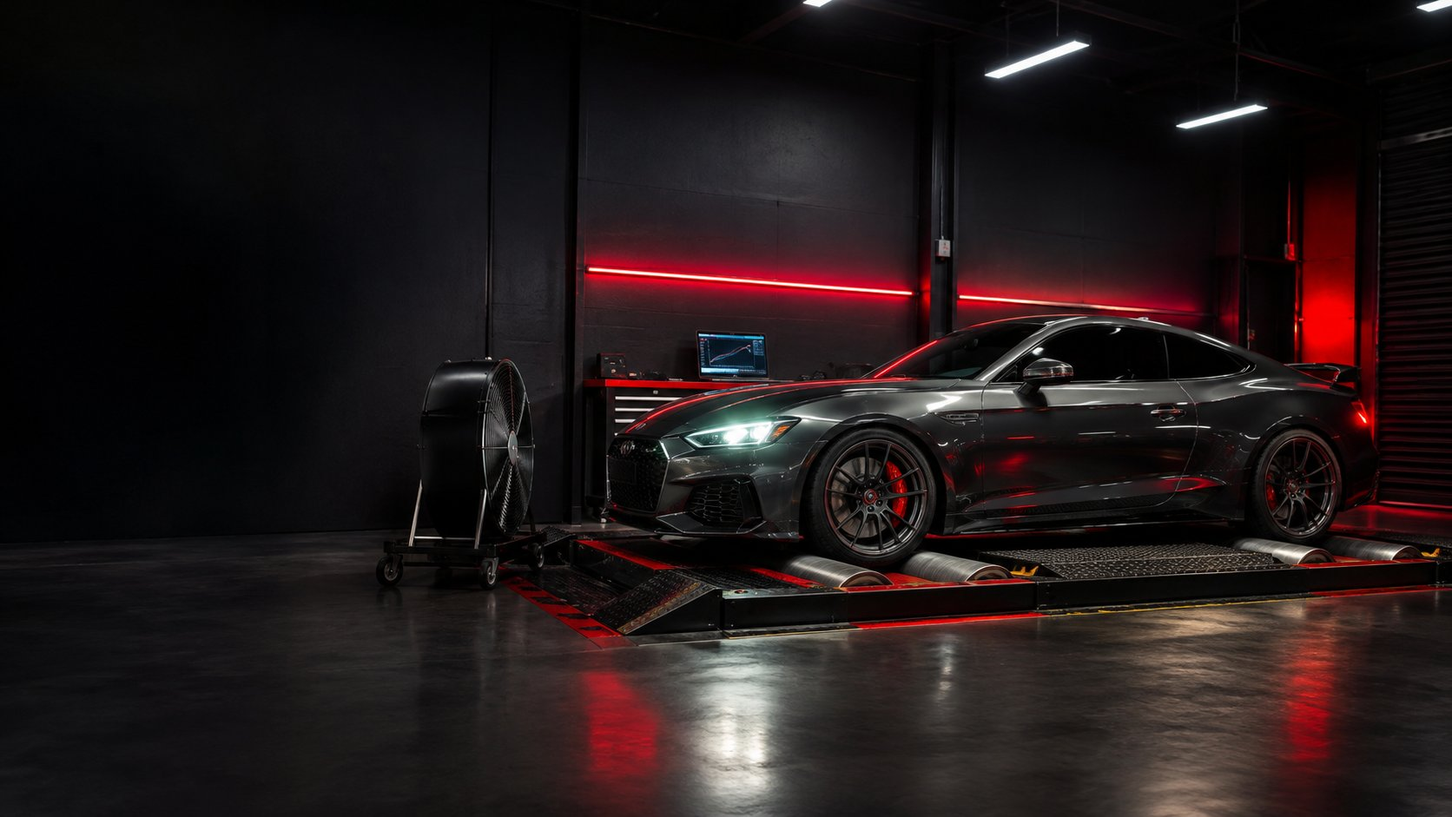
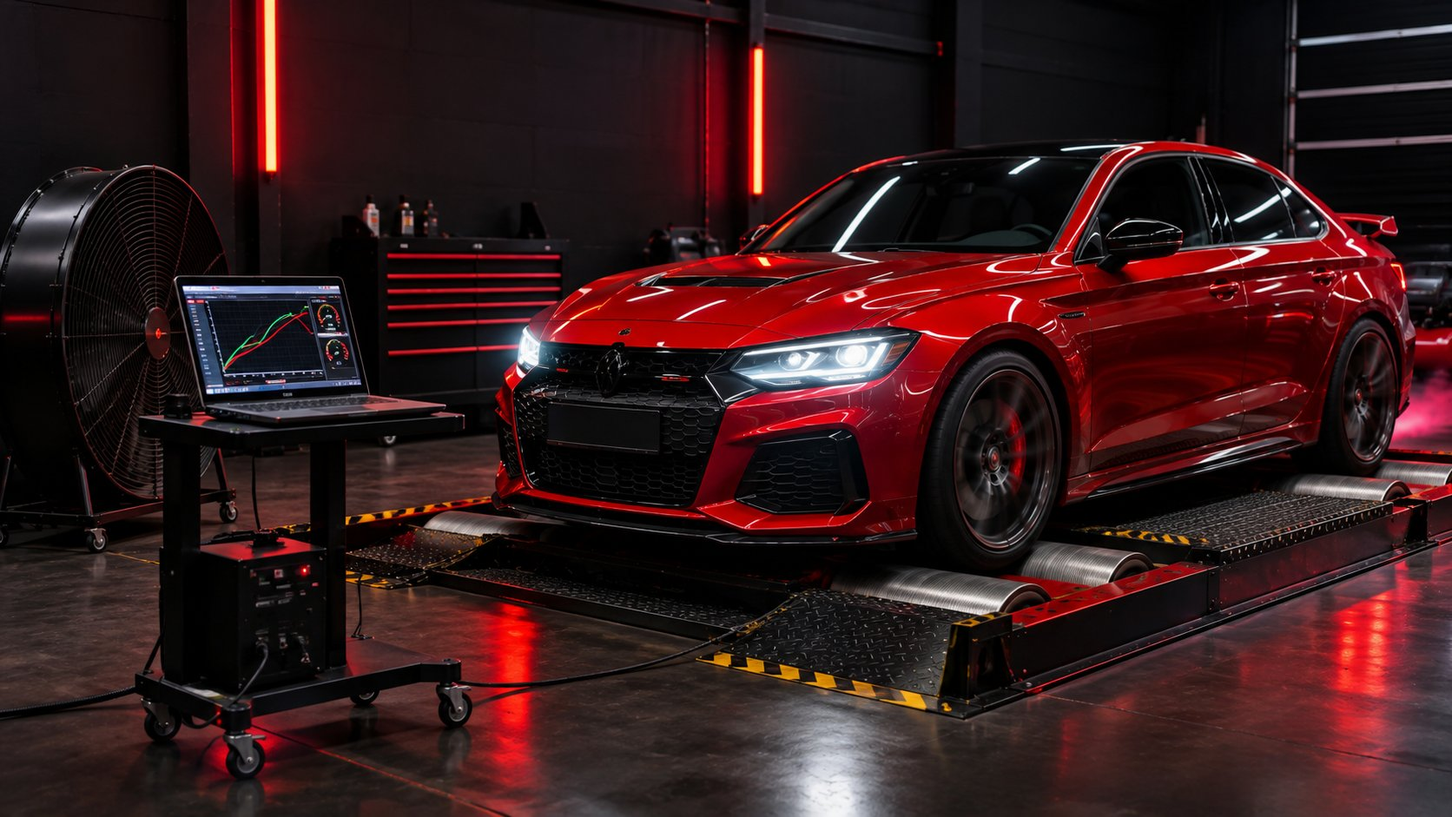
Fotos novas de todos os cards de servico, capa de Reprogramacion, Desarrollo e Piezas
Claude-Session: https://claude.ai/code/session_017KzpAfUo3wvt3RuGmYCGFp

diff --git a/index.html b/index.html
@@ -128,7 +128,7 @@
       </div>
 
       <a class="svc-feature" href="vehiculos.html">
-        <img src="images/svc-stage1.jpg" alt="Coche en el banco de potencia de Carbon Performance" loading="lazy" width="1672" height="941">
+        <img src="images/svc-stage1.jpg" alt="Coche deportivo rojo en el banco de potencia" loading="lazy" width="1672" height="941">
         <span class="badge">El más solicitado</span>
         <span class="kicker">STAGE 1</span>
         <h3>La reprogramación de centralitas</h3>
@@ -138,11 +138,11 @@
 
       <div class="rail svc-rail" id="svc-rail">
         <a class="svc-card" href="vehiculos.html"><img src="images/svc-eco.jpg" alt="Coche compacto en el banco de potencia" loading="lazy" width="1672" height="941"><span class="kicker">ECO</span><span class="foot"><h3>Más par y menos consumo de combustible</h3><span class="go"><svg viewBox="0 0 16 16" aria-hidden="true"><path d="M6 3l5 5-5 5" fill="none" stroke="currentColor" stroke-width="2" stroke-linecap="round" stroke-linejoin="round"/></svg></span></span></a>
-        <a class="svc-card" href="vehiculos.html"><img src="images/21015-Mclaren_720_S_Banc_infos_jauneBBB.jpg" alt="" loading="lazy"><span class="kicker">STAGE 2</span><span class="foot"><h3>Reprogramación y piezas de alto rendimiento</h3><span class="go"><svg viewBox="0 0 16 16" aria-hidden="true"><path d="M6 3l5 5-5 5" fill="none" stroke="currentColor" stroke-width="2" stroke-linecap="round" stroke-linejoin="round"/></svg></span></span></a>
-        <a class="svc-card" href="vehiculos.html"><img src="images/Ferrari_lateral_av.jpg" alt="" loading="lazy"><span class="kicker">STAGE 3</span><span class="foot"><h3>Reprogramación a medida y mejoras mecánicas completas</h3><span class="go"><svg viewBox="0 0 16 16" aria-hidden="true"><path d="M6 3l5 5-5 5" fill="none" stroke="currentColor" stroke-width="2" stroke-linecap="round" stroke-linejoin="round"/></svg></span></span></a>
-        <a class="svc-card" href="vehiculos.html"><img src="images/Ferrari_488_GTB_Banc_av.jpg" alt="" loading="lazy"><span class="kicker">GEARBOX</span><span class="foot"><h3>Reprogramación de cajas DSG y automáticas</h3><span class="go"><svg viewBox="0 0 16 16" aria-hidden="true"><path d="M6 3l5 5-5 5" fill="none" stroke="currentColor" stroke-width="2" stroke-linecap="round" stroke-linejoin="round"/></svg></span></span></a>
-        <a class="svc-card" href="banco-de-rodillos.html"><img src="images/DSC01073.jpg" alt="" loading="lazy"><span class="kicker">BANCO DE RODILLOS</span><span class="foot"><h3>Medición real de potencia y par en banco 4x4</h3><span class="go"><svg viewBox="0 0 16 16" aria-hidden="true"><path d="M6 3l5 5-5 5" fill="none" stroke="currentColor" stroke-width="2" stroke-linecap="round" stroke-linejoin="round"/></svg></span></span></a>
-        <a class="svc-card" href="desarrollo.html"><img src="images/7119.jpg" alt="" loading="lazy"><span class="kicker">DESARROLLO</span><span class="foot"><h3>Software propio para cada motor</h3><span class="go"><svg viewBox="0 0 16 16" aria-hidden="true"><path d="M6 3l5 5-5 5" fill="none" stroke="currentColor" stroke-width="2" stroke-linecap="round" stroke-linejoin="round"/></svg></span></span></a>
+        <a class="svc-card" href="vehiculos.html"><img src="images/svc-stage2.jpg" alt="Coupé amarillo con admisión y escape deportivos" loading="lazy" width="1672" height="941"><span class="kicker">STAGE 2</span><span class="foot"><h3>Reprogramación y piezas de alto rendimiento</h3><span class="go"><svg viewBox="0 0 16 16" aria-hidden="true"><path d="M6 3l5 5-5 5" fill="none" stroke="currentColor" stroke-width="2" stroke-linecap="round" stroke-linejoin="round"/></svg></span></span></a>
+        <a class="svc-card" href="vehiculos.html"><img src="images/svc-stage3.jpg" alt="Motor preparado con turbo e intercooler" loading="lazy" width="1672" height="941"><span class="kicker">STAGE 3</span><span class="foot"><h3>Reprogramación a medida y mejoras mecánicas completas</h3><span class="go"><svg viewBox="0 0 16 16" aria-hidden="true"><path d="M6 3l5 5-5 5" fill="none" stroke="currentColor" stroke-width="2" stroke-linecap="round" stroke-linejoin="round"/></svg></span></span></a>
+        <a class="svc-card" href="vehiculos.html"><img src="images/svc-gearbox.jpg" alt="Selector de cambio automático y levas" loading="lazy" width="1672" height="941"><span class="kicker">GEARBOX</span><span class="foot"><h3>Reprogramación de cajas DSG y automáticas</h3><span class="go"><svg viewBox="0 0 16 16" aria-hidden="true"><path d="M6 3l5 5-5 5" fill="none" stroke="currentColor" stroke-width="2" stroke-linecap="round" stroke-linejoin="round"/></svg></span></span></a>
+        <a class="svc-card" href="banco-de-rodillos.html"><img src="images/svc-dyno.jpg" alt="Banco de potencia 4x4" loading="lazy" width="1672" height="941"><span class="kicker">BANCO DE RODILLOS</span><span class="foot"><h3>Medición real de potencia y par en banco 4x4</h3><span class="go"><svg viewBox="0 0 16 16" aria-hidden="true"><path d="M6 3l5 5-5 5" fill="none" stroke="currentColor" stroke-width="2" stroke-linecap="round" stroke-linejoin="round"/></svg></span></span></a>
+        <a class="svc-card" href="desarrollo.html"><img src="images/svc-desarrollo.jpg" alt="Mapas de calibración de la centralita" loading="lazy" width="1672" height="941"><span class="kicker">DESARROLLO</span><span class="foot"><h3>Software propio para cada motor</h3><span class="go"><svg viewBox="0 0 16 16" aria-hidden="true"><path d="M6 3l5 5-5 5" fill="none" stroke="currentColor" stroke-width="2" stroke-linecap="round" stroke-linejoin="round"/></svg></span></span></a>
       </div>
       <div class="rail-foot">
         <div class="rail-nav" data-rail-nav="svc-rail">

diff --git a/vehiculos.html b/vehiculos.html
@@ -55,7 +55,7 @@
 
 <main id="main">
   <section class="hero hero-reprog">
-    <img class="hero-bg" src="images/Ferrari_488_GTB_Banc_av.jpg" alt="" width="1200" height="334" fetchpriority="high">
+    <img class="hero-bg" src="images/parts-coupe.jpg" alt="Coche en el banco de potencia de Carbon Performance" width="1672" height="941" fetchpriority="high">
     <div class="container">
       <h1>Reprogramación a medida</h1>
       <p class="hero-lead">Coche, moto, moto de agua o lancha: cada reprogramación se ajusta a tu motor en nuestro banco de potencia.</p>
@@ -96,7 +96,7 @@
       </div>
       <div class="svc-stack">
       <a class="svc-feature featured" href="#main">
-        <img src="images/svc-stage1.jpg" alt="Coche en el banco de potencia de Carbon Performance" loading="lazy" width="1672" height="941">
+        <img src="images/svc-stage1.jpg" alt="Coche deportivo rojo en el banco de potencia" loading="lazy" width="1672" height="941">
         <span class="badge">El más solicitado</span>
         <span class="kicker">STAGE 1</span>
         <h3>La reprogramación de centralitas</h3>
@@ -112,7 +112,7 @@
         <span class="btn" style="align-self:flex-start">Más información <span class="ico"><svg viewBox="0 0 16 16" aria-hidden="true"><path d="M6 3l5 5-5 5" fill="none" stroke="currentColor" stroke-width="2" stroke-linecap="round" stroke-linejoin="round"/></svg></span></span>
       </a>
       <a class="svc-feature " href="piezas.html">
-        <img src="images/21015-Mclaren_720_S_Banc_infos_jauneBBB.jpg" alt="" loading="lazy" width="1200" height="334">
+        <img src="images/svc-stage2.jpg" alt="Coupé amarillo con admisión y escape deportivos" loading="lazy" width="1672" height="941">
         <span class="badge">El más solicitado</span>
         <span class="kicker">STAGE 2</span>
         <h3>Reprogramación y piezas de alto rendimiento</h3>
@@ -120,7 +120,7 @@
         <span class="btn" style="align-self:flex-start">Más información <span class="ico"><svg viewBox="0 0 16 16" aria-hidden="true"><path d="M6 3l5 5-5 5" fill="none" stroke="currentColor" stroke-width="2" stroke-linecap="round" stroke-linejoin="round"/></svg></span></span>
       </a>
       <a class="svc-feature " href="contacto.html">
-        <img src="images/Ferrari_lateral_av.jpg" alt="" loading="lazy" width="1200" height="334">
+        <img src="images/svc-stage3.jpg" alt="Motor preparado con turbo e intercooler" loading="lazy" width="1672" height="941">
         <span class="badge">El más solicitado</span>
         <span class="kicker">STAGE 3</span>
         <h3>Reprogramación a medida y mejoras mecánicas completas</h3>
@@ -128,7 +128,7 @@
         <span class="btn" style="align-self:flex-start">Más información <span class="ico"><svg viewBox="0 0 16 16" aria-hidden="true"><path d="M6 3l5 5-5 5" fill="none" stroke="currentColor" stroke-width="2" stroke-linecap="round" stroke-linejoin="round"/></svg></span></span>
       </a>
       <a class="svc-feature " href="#main">
-        <img src="images/Ferrari_488_GTB_Banc_av.jpg" alt="" loading="lazy" width="1200" height="334">
+        <img src="images/svc-gearbox.jpg" alt="Selector de cambio automático y levas" loading="lazy" width="1672" height="941">
         <span class="badge">El más solicitado</span>
         <span class="kicker">GEARBOX</span>
         <h3>Reprogramación de cajas DSG y automáticas</h3>
@@ -136,7 +136,7 @@
         <span class="btn" style="align-self:flex-start">Más información <span class="ico"><svg viewBox="0 0 16 16" aria-hidden="true"><path d="M6 3l5 5-5 5" fill="none" stroke="currentColor" stroke-width="2" stroke-linecap="round" stroke-linejoin="round"/></svg></span></span>
       </a>
       <a class="svc-feature " href="banco-de-rodillos.html">
-        <img src="images/DSC01073.jpg" alt="" loading="lazy" width="1200" height="334">
+        <img src="images/svc-dyno.jpg" alt="Banco de potencia 4x4" loading="lazy" width="1672" height="941">
         <span class="badge">El más solicitado</span>
         <span class="kicker">BANCO DE POTENCIA</span>
         <h3>Mide la potencia y el par de tu vehículo</h3>
@@ -144,7 +144,7 @@
         <span class="btn" style="align-self:flex-start">Más información <span class="ico"><svg viewBox="0 0 16 16" aria-hidden="true"><path d="M6 3l5 5-5 5" fill="none" stroke="currentColor" stroke-width="2" stroke-linecap="round" stroke-linejoin="round"/></svg></span></span>
       </a>
       <a class="svc-feature " href="desarrollo.html">
-        <img src="images/7119.jpg" alt="" loading="lazy" width="1200" height="334">
+        <img src="images/svc-desarrollo.jpg" alt="Mapas de calibración de la centralita" loading="lazy" width="1672" height="941">
         <span class="badge">El más solicitado</span>
         <span class="kicker">DESARROLLO</span>
         <h3>Software propio para cada motor</h3>

diff --git a/lancha.html b/lancha.html
@@ -96,7 +96,7 @@
       </div>
       <div class="svc-stack">
       <a class="svc-feature featured" href="#main">
-        <img src="images/svc-stage1.jpg" alt="Coche en el banco de potencia de Carbon Performance" loading="lazy" width="1672" height="941">
+        <img src="images/svc-stage1.jpg" alt="Coche deportivo rojo en el banco de potencia" loading="lazy" width="1672" height="941">
         <span class="badge">El más solicitado</span>
         <span class="kicker">STAGE 1</span>
         <h3>La reprogramación de centralitas</h3>
@@ -112,7 +112,7 @@
         <span class="btn" style="align-self:flex-start">Más información <span class="ico"><svg viewBox="0 0 16 16" aria-hidden="true"><path d="M6 3l5 5-5 5" fill="none" stroke="currentColor" stroke-width="2" stroke-linecap="round" stroke-linejoin="round"/></svg></span></span>
       </a>
       <a class="svc-feature " href="piezas.html">
-        <img src="images/21015-Mclaren_720_S_Banc_infos_jauneBBB.jpg" alt="" loading="lazy" width="1200" height="334">
+        <img src="images/svc-stage2.jpg" alt="Coupé amarillo con admisión y escape deportivos" loading="lazy" width="1672" height="941">
         <span class="badge">El más solicitado</span>
         <span class="kicker">STAGE 2</span>
         <h3>Reprogramación y piezas de alto rendimiento</h3>
@@ -120,7 +120,7 @@
         <span class="btn" style="align-self:flex-start">Más información <span class="ico"><svg viewBox="0 0 16 16" aria-hidden="true"><path d="M6 3l5 5-5 5" fill="none" stroke="currentColor" stroke-width="2" stroke-linecap="round" stroke-linejoin="round"/></svg></span></span>
       </a>
       <a class="svc-feature " href="contacto.html">
-        <img src="images/Ferrari_lateral_av.jpg" alt="" loading="lazy" width="1200" height="334">
+        <img src="images/svc-stage3.jpg" alt="Motor preparado con turbo e intercooler" loading="lazy" width="1672" height="941">
         <span class="badge">El más solicitado</span>
         <span class="kicker">STAGE 3</span>
         <h3>Reprogramación a medida y mejoras mecánicas completas</h3>
@@ -128,7 +128,7 @@
         <span class="btn" style="align-self:flex-start">Más información <span class="ico"><svg viewBox="0 0 16 16" aria-hidden="true"><path d="M6 3l5 5-5 5" fill="none" stroke="currentColor" stroke-width="2" stroke-linecap="round" stroke-linejoin="round"/></svg></span></span>
       </a>
       <a class="svc-feature " href="#main">
-        <img src="images/Ferrari_488_GTB_Banc_av.jpg" alt="" loading="lazy" width="1200" height="334">
+        <img src="images/svc-gearbox.jpg" alt="Selector de cambio automático y levas" loading="lazy" width="1672" height="941">
         <span class="badge">El más solicitado</span>
         <span class="kicker">GEARBOX</span>
         <h3>Reprogramación de cajas DSG y automáticas</h3>
@@ -136,7 +136,7 @@
         <span class="btn" style="align-self:flex-start">Más información <span class="ico"><svg viewBox="0 0 16 16" aria-hidden="true"><path d="M6 3l5 5-5 5" fill="none" stroke="currentColor" stroke-width="2" stroke-linecap="round" stroke-linejoin="round"/></svg></span></span>
       </a>
       <a class="svc-feature " href="banco-de-rodillos.html">
-        <img src="images/DSC01073.jpg" alt="" loading="lazy" width="1200" height="334">
+        <img src="images/svc-dyno.jpg" alt="Banco de potencia 4x4" loading="lazy" width="1672" height="941">
         <span class="badge">El más solicitado</span>
         <span class="kicker">BANCO DE POTENCIA</span>
         <h3>Mide la potencia y el par de tu vehículo</h3>
@@ -144,7 +144,7 @@
         <span class="btn" style="align-self:flex-start">Más información <span class="ico"><svg viewBox="0 0 16 16" aria-hidden="true"><path d="M6 3l5 5-5 5" fill="none" stroke="currentColor" stroke-width="2" stroke-linecap="round" stroke-linejoin="round"/></svg></span></span>
       </a>
       <a class="svc-feature " href="desarrollo.html">
-        <img src="images/7119.jpg" alt="" loading="lazy" width="1200" height="334">
+        <img src="images/svc-desarrollo.jpg" alt="Mapas de calibración de la centralita" loading="lazy" width="1672" height="941">
         <span class="badge">El más solicitado</span>
         <span class="kicker">DESARROLLO</span>
         <h3>Software propio para cada motor</h3>

diff --git a/moto-agua.html b/moto-agua.html
@@ -96,7 +96,7 @@
       </div>
       <div class="svc-stack">
       <a class="svc-feature featured" href="#main">
-        <img src="images/svc-stage1.jpg" alt="Coche en el banco de potencia de Carbon Performance" loading="lazy" width="1672" height="941">
+        <img src="images/svc-stage1.jpg" alt="Coche deportivo rojo en el banco de potencia" loading="lazy" width="1672" height="941">
         <span class="badge">El más solicitado</span>
         <span class="kicker">STAGE 1</span>
         <h3>La reprogramación de centralitas</h3>
@@ -112,7 +112,7 @@
         <span class="btn" style="align-self:flex-start">Más información <span class="ico"><svg viewBox="0 0 16 16" aria-hidden="true"><path d="M6 3l5 5-5 5" fill="none" stroke="currentColor" stroke-width="2" stroke-linecap="round" stroke-linejoin="round"/></svg></span></span>
       </a>
       <a class="svc-feature " href="piezas.html">
-        <img src="images/21015-Mclaren_720_S_Banc_infos_jauneBBB.jpg" alt="" loading="lazy" width="1200" height="334">
+        <img src="images/svc-stage2.jpg" alt="Coupé amarillo con admisión y escape deportivos" loading="lazy" width="1672" height="941">
         <span class="badge">El más solicitado</span>
         <span class="kicker">STAGE 2</span>
         <h3>Reprogramación y piezas de alto rendimiento</h3>
@@ -120,7 +120,7 @@
         <span class="btn" style="align-self:flex-start">Más información <span class="ico"><svg viewBox="0 0 16 16" aria-hidden="true"><path d="M6 3l5 5-5 5" fill="none" stroke="currentColor" stroke-width="2" stroke-linecap="round" stroke-linejoin="round"/></svg></span></span>
       </a>
       <a class="svc-feature " href="contacto.html">
-        <img src="images/Ferrari_lateral_av.jpg" alt="" loading="lazy" width="1200" height="334">
+        <img src="images/svc-stage3.jpg" alt="Motor preparado con turbo e intercooler" loading="lazy" width="1672" height="941">
         <span class="badge">El más solicitado</span>
         <span class="kicker">STAGE 3</span>
         <h3>Reprogramación a medida y mejoras mecánicas completas</h3>
@@ -128,7 +128,7 @@
         <span class="btn" style="align-self:flex-start">Más información <span class="ico"><svg viewBox="0 0 16 16" aria-hidden="true"><path d="M6 3l5 5-5 5" fill="none" stroke="currentColor" stroke-width="2" stroke-linecap="round" stroke-linejoin="round"/></svg></span></span>
       </a>
       <a class="svc-feature " href="#main">
-        <img src="images/Ferrari_488_GTB_Banc_av.jpg" alt="" loading="lazy" width="1200" height="334">
+        <img src="images/svc-gearbox.jpg" alt="Selector de cambio automático y levas" loading="lazy" width="1672" height="941">
         <span class="badge">El más solicitado</span>
         <span class="kicker">GEARBOX</span>
         <h3>Reprogramación de cajas DSG y automáticas</h3>
@@ -136,7 +136,7 @@
         <span class="btn" style="align-self:flex-start">Más información <span class="ico"><svg viewBox="0 0 16 16" aria-hidden="true"><path d="M6 3l5 5-5 5" fill="none" stroke="currentColor" stroke-width="2" stroke-linecap="round" stroke-linejoin="round"/></svg></span></span>
       </a>
       <a class="svc-feature " href="banco-de-rodillos.html">
-        <img src="images/DSC01073.jpg" alt="" loading="lazy" width="1200" height="334">
+        <img src="images/svc-dyno.jpg" alt="Banco de potencia 4x4" loading="lazy" width="1672" height="941">
         <span class="badge">El más solicitado</span>
         <span class="kicker">BANCO DE POTENCIA</span>
         <h3>Mide la potencia y el par de tu vehículo</h3>
@@ -144,7 +144,7 @@
         <span class="btn" style="align-self:flex-start">Más información <span class="ico"><svg viewBox="0 0 16 16" aria-hidden="true"><path d="M6 3l5 5-5 5" fill="none" stroke="currentColor" stroke-width="2" stroke-linecap="round" stroke-linejoin="round"/></svg></span></span>
       </a>
       <a class="svc-feature " href="desarrollo.html">
-        <img src="images/7119.jpg" alt="" loading="lazy" width="1200" height="334">
+        <img src="images/svc-desarrollo.jpg" alt="Mapas de calibración de la centralita" loading="lazy" width="1672" height="941">
         <span class="badge">El más solicitado</span>
         <span class="kicker">DESARROLLO</span>
         <h3>Software propio para cada motor</h3>

diff --git a/motos.html b/motos.html
@@ -96,7 +96,7 @@
       </div>
       <div class="svc-stack">
       <a class="svc-feature featured" href="#main">
-        <img src="images/svc-stage1.jpg" alt="Coche en el banco de potencia de Carbon Performance" loading="lazy" width="1672" height="941">
+        <img src="images/svc-stage1.jpg" alt="Coche deportivo rojo en el banco de potencia" loading="lazy" width="1672" height="941">
         <span class="badge">El más solicitado</span>
         <span class="kicker">STAGE 1</span>
         <h3>La reprogramación de centralitas</h3>
@@ -112,7 +112,7 @@
         <span class="btn" style="align-self:flex-start">Más información <span class="ico"><svg viewBox="0 0 16 16" aria-hidden="true"><path d="M6 3l5 5-5 5" fill="none" stroke="currentColor" stroke-width="2" stroke-linecap="round" stroke-linejoin="round"/></svg></span></span>
       </a>
       <a class="svc-feature " href="piezas.html">
-        <img src="images/21015-Mclaren_720_S_Banc_infos_jauneBBB.jpg" alt="" loading="lazy" width="1200" height="334">
+        <img src="images/svc-stage2.jpg" alt="Coupé amarillo con admisión y escape deportivos" loading="lazy" width="1672" height="941">
         <span class="badge">El más solicitado</span>
         <span class="kicker">STAGE 2</span>
         <h3>Reprogramación y piezas de alto rendimiento</h3>
@@ -120,7 +120,7 @@
         <span class="btn" style="align-self:flex-start">Más información <span class="ico"><svg viewBox="0 0 16 16" aria-hidden="true"><path d="M6 3l5 5-5 5" fill="none" stroke="currentColor" stroke-width="2" stroke-linecap="round" stroke-linejoin="round"/></svg></span></span>
       </a>
       <a class="svc-feature " href="contacto.html">
-        <img src="images/Ferrari_lateral_av.jpg" alt="" loading="lazy" width="1200" height="334">
+        <img src="images/svc-stage3.jpg" alt="Motor preparado con turbo e intercooler" loading="lazy" width="1672" height="941">
         <span class="badge">El más solicitado</span>
         <span class="kicker">STAGE 3</span>
         <h3>Reprogramación a medida y mejoras mecánicas completas</h3>
@@ -128,7 +128,7 @@
         <span class="btn" style="align-self:flex-start">Más información <span class="ico"><svg viewBox="0 0 16 16" aria-hidden="true"><path d="M6 3l5 5-5 5" fill="none" stroke="currentColor" stroke-width="2" stroke-linecap="round" stroke-linejoin="round"/></svg></span></span>
       </a>
       <a class="svc-feature " href="#main">
-        <img src="images/Ferrari_488_GTB_Banc_av.jpg" alt="" loading="lazy" width="1200" height="334">
+        <img src="images/svc-gearbox.jpg" alt="Selector de cambio automático y levas" loading="lazy" width="1672" height="941">
         <span class="badge">El más solicitado</span>
         <span class="kicker">GEARBOX</span>
         <h3>Reprogramación de cajas DSG y automáticas</h3>
@@ -136,7 +136,7 @@
         <span class="btn" style="align-self:flex-start">Más información <span class="ico"><svg viewBox="0 0 16 16" aria-hidden="true"><path d="M6 3l5 5-5 5" fill="none" stroke="currentColor" stroke-width="2" stroke-linecap="round" stroke-linejoin="round"/></svg></span></span>
       </a>
       <a class="svc-feature " href="banco-de-rodillos.html">
-        <img src="images/DSC01073.jpg" alt="" loading="lazy" width="1200" height="334">
+        <img src="images/svc-dyno.jpg" alt="Banco de potencia 4x4" loading="lazy" width="1672" height="941">
         <span class="badge">El más solicitado</span>
         <span class="kicker">BANCO DE POTENCIA</span>
         <h3>Mide la potencia y el par de tu vehículo</h3>
@@ -144,7 +144,7 @@
         <span class="btn" style="align-self:flex-start">Más información <span class="ico"><svg viewBox="0 0 16 16" aria-hidden="true"><path d="M6 3l5 5-5 5" fill="none" stroke="currentColor" stroke-width="2" stroke-linecap="round" stroke-linejoin="round"/></svg></span></span>
       </a>
       <a class="svc-feature " href="desarrollo.html">
-        <img src="images/7119.jpg" alt="" loading="lazy" width="1200" height="334">
+        <img src="images/svc-desarrollo.jpg" alt="Mapas de calibración de la centralita" loading="lazy" width="1672" height="941">
         <span class="badge">El más solicitado</span>
         <span class="kicker">DESARROLLO</span>
         <h3>Software propio para cada motor</h3>

diff --git a/piezas.html b/piezas.html
@@ -72,7 +72,7 @@
       </div>
       <div class="svc-stack">
       <a class="svc-feature part-feature" href="contacto.html">
-        <img src="images/Porsche_918_Spyder_dyno.jpg" alt="" loading="lazy">
+        <img src="images/parts-coupe.jpg" alt="" loading="lazy">
         <span class="kicker">Pieza y sistema</span>
         <h2>Sistemas de escape</h2>
         <p>Sonido y rendimiento: escapes de las mejores marcas, montados en nuestro taller.</p>
@@ -80,7 +80,7 @@
         <span class="btn" style="align-self:flex-start">Pedir presupuesto <span class="ico"><svg viewBox="0 0 16 16" aria-hidden="true"><path d="M6 3l5 5-5 5" fill="none" stroke="currentColor" stroke-width="2" stroke-linecap="round" stroke-linejoin="round"/></svg></span></span>
       </a>
       <a class="svc-feature part-feature" href="contacto.html">
-        <img src="images/Ferrari_488_GTB_Banc_av.jpg" alt="" loading="lazy">
+        <img src="images/svc-stage3.jpg" alt="" loading="lazy">
         <span class="kicker">Pieza y sistema</span>
         <h2>Intercooler</h2>
         <p>Más refrigeración del aire de admisión para una potencia constante.</p>
@@ -88,7 +88,7 @@
         <span class="btn" style="align-self:flex-start">Pedir presupuesto <span class="ico"><svg viewBox="0 0 16 16" aria-hidden="true"><path d="M6 3l5 5-5 5" fill="none" stroke="currentColor" stroke-width="2" stroke-linecap="round" stroke-linejoin="round"/></svg></span></span>
       </a>
       <a class="svc-feature part-feature" href="contacto.html">
-        <img src="images/DSC01073.jpg" alt="" loading="lazy">
+        <img src="images/svc-dyno.jpg" alt="" loading="lazy">
         <span class="kicker">Pieza y sistema</span>
         <h2>Suspensión</h2>
         <p>Mejor comportamiento en curva y más control a alta velocidad.</p>
@@ -96,7 +96,7 @@
         <span class="btn" style="align-self:flex-start">Pedir presupuesto <span class="ico"><svg viewBox="0 0 16 16" aria-hidden="true"><path d="M6 3l5 5-5 5" fill="none" stroke="currentColor" stroke-width="2" stroke-linecap="round" stroke-linejoin="round"/></svg></span></span>
       </a>
       <a class="svc-feature part-feature" href="contacto.html">
-        <img src="images/7119.jpg" alt="" loading="lazy">
+        <img src="images/svc-stage2.jpg" alt="" loading="lazy">
         <span class="kicker">Pieza y sistema</span>
         <h2>Admisión</h2>
         <p>Filtros y sistemas de admisión de alto flujo.</p>

diff --git a/desarrollo.html b/desarrollo.html
@@ -85,7 +85,7 @@
       <p>¿Experimentamos con su coche? No, ciertamente no, no hacemos experimentos en los coches de nuestros clientes, nosotros disponemos de coches de demostración de los propios fabricantes con los que tenemos relación. Las pruebas que hacemos son más de ajuste y diagnóstico, este proceso puede ser mucho tiempo y por lo tanto, pedimos que el vehículo esté disponible para 1 o más días.</p>
       <p class="callout">Si su coche aparece en la siguiente lista, rogaríamos que se pusiera <a href="contacto.html">en contacto</a>. Ya que el primer cliente consigue un descuento excepcional.</p>
     </div>
-    <figure class="media"><img src="images/Ferrari_488_GTB_Banc_av.jpg" alt="" loading="lazy" width="1200" height="334"></figure>
+    <figure class="media"><img src="images/svc-desarrollo.jpg" alt="Mapas de calibración de la centralita" loading="lazy" width="1672" height="941"></figure>
   </section>
 
   <!-- layout:contact -->

diff --git a/css/carbon.css b/css/carbon.css
@@ -782,7 +782,7 @@ body.nav-open .site-header { z-index: 70; }
 @media (max-width: 768px) { .split { padding-block: 48px; } .split h1, .split h2 { font-size: 32px; margin-bottom: 20px; } .split p, .split ul li { font-size: 16px; } }
 
 /* Hero das páginas de reprogramação */
-.hero.hero-reprog h1 { max-width: 600px; }
+.hero.hero-reprog h1 { max-width: 760px; }
 
 /* Serviços empilhados */
 .svc-stack { display: grid; gap: 32px; }
@@ -1002,3 +1002,4 @@ body.nav-open .site-header { z-index: 70; }
 .page-home .hero-bg { object-position: 72% 50%; }
 @media (max-width: 768px) { .page-home .hero-bg { object-position: 78% 50%; } }
 .photo-band img { object-position: 50% 55%; }
+.hero-reprog .hero-bg { object-position: 70% 50%; }
